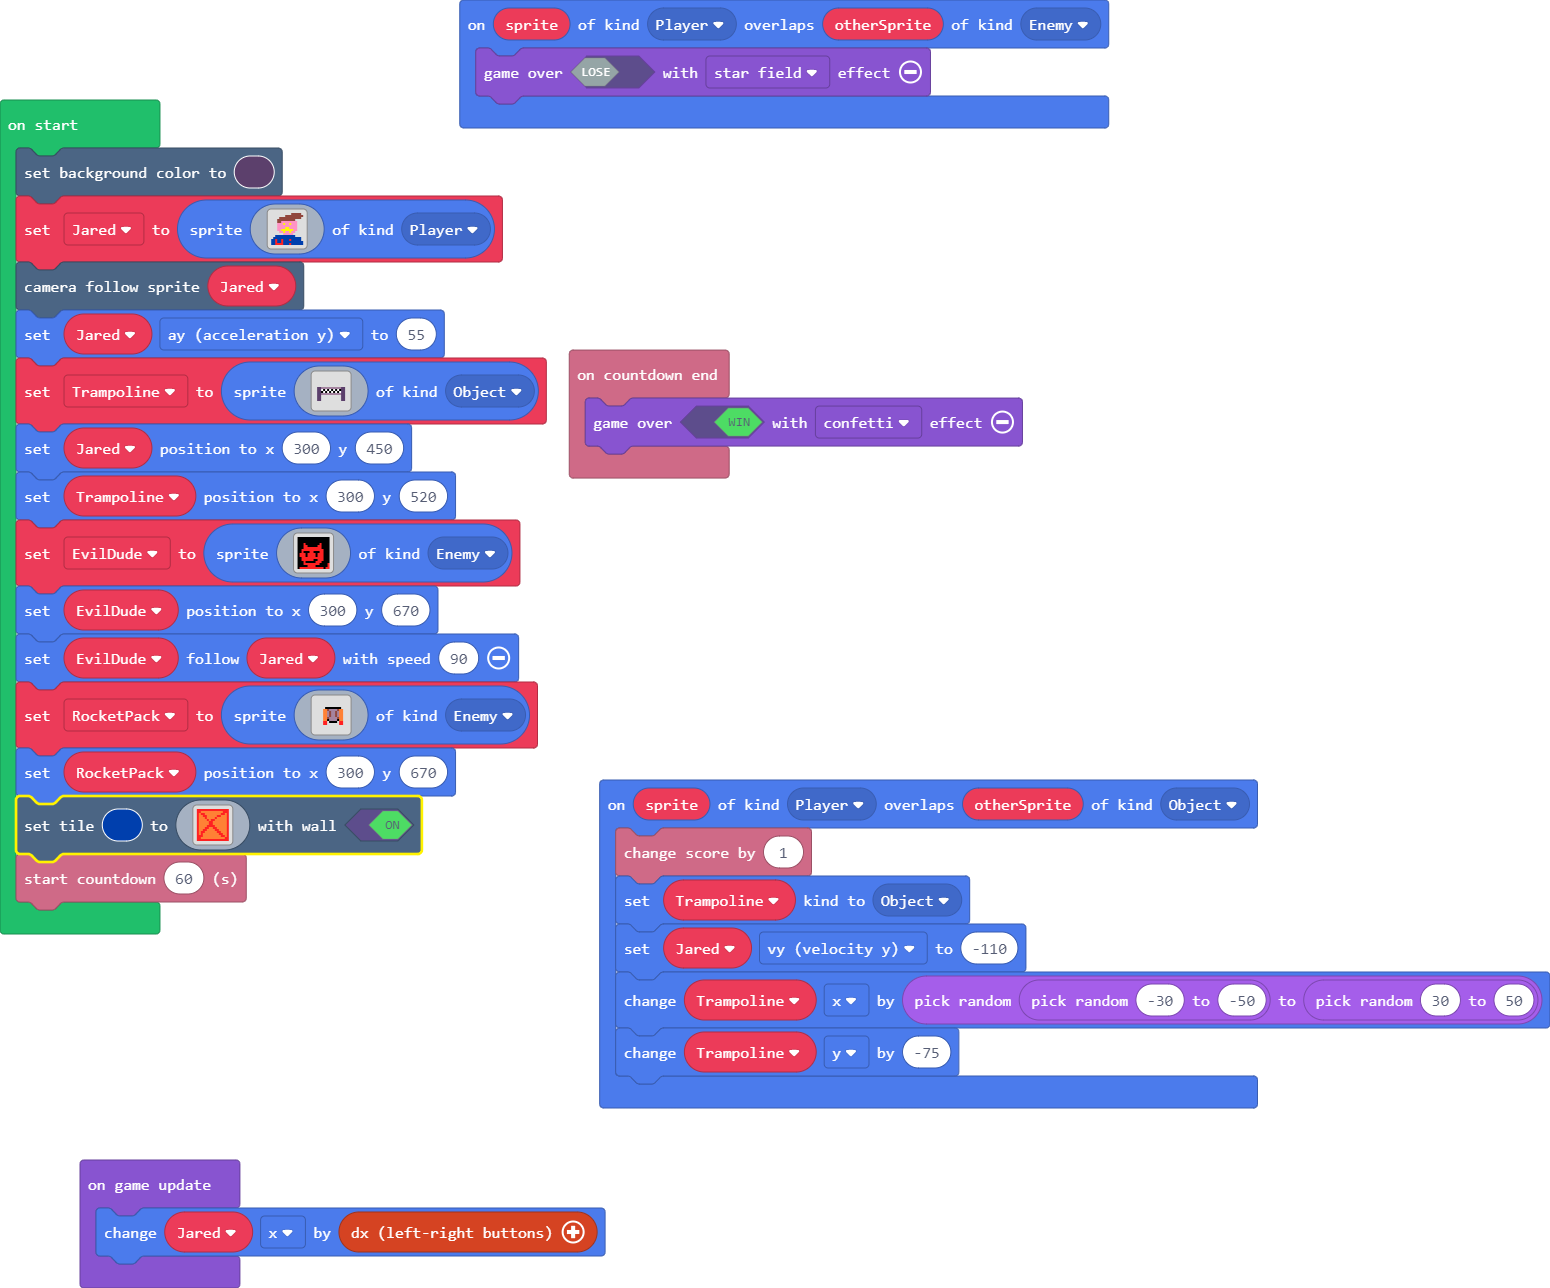
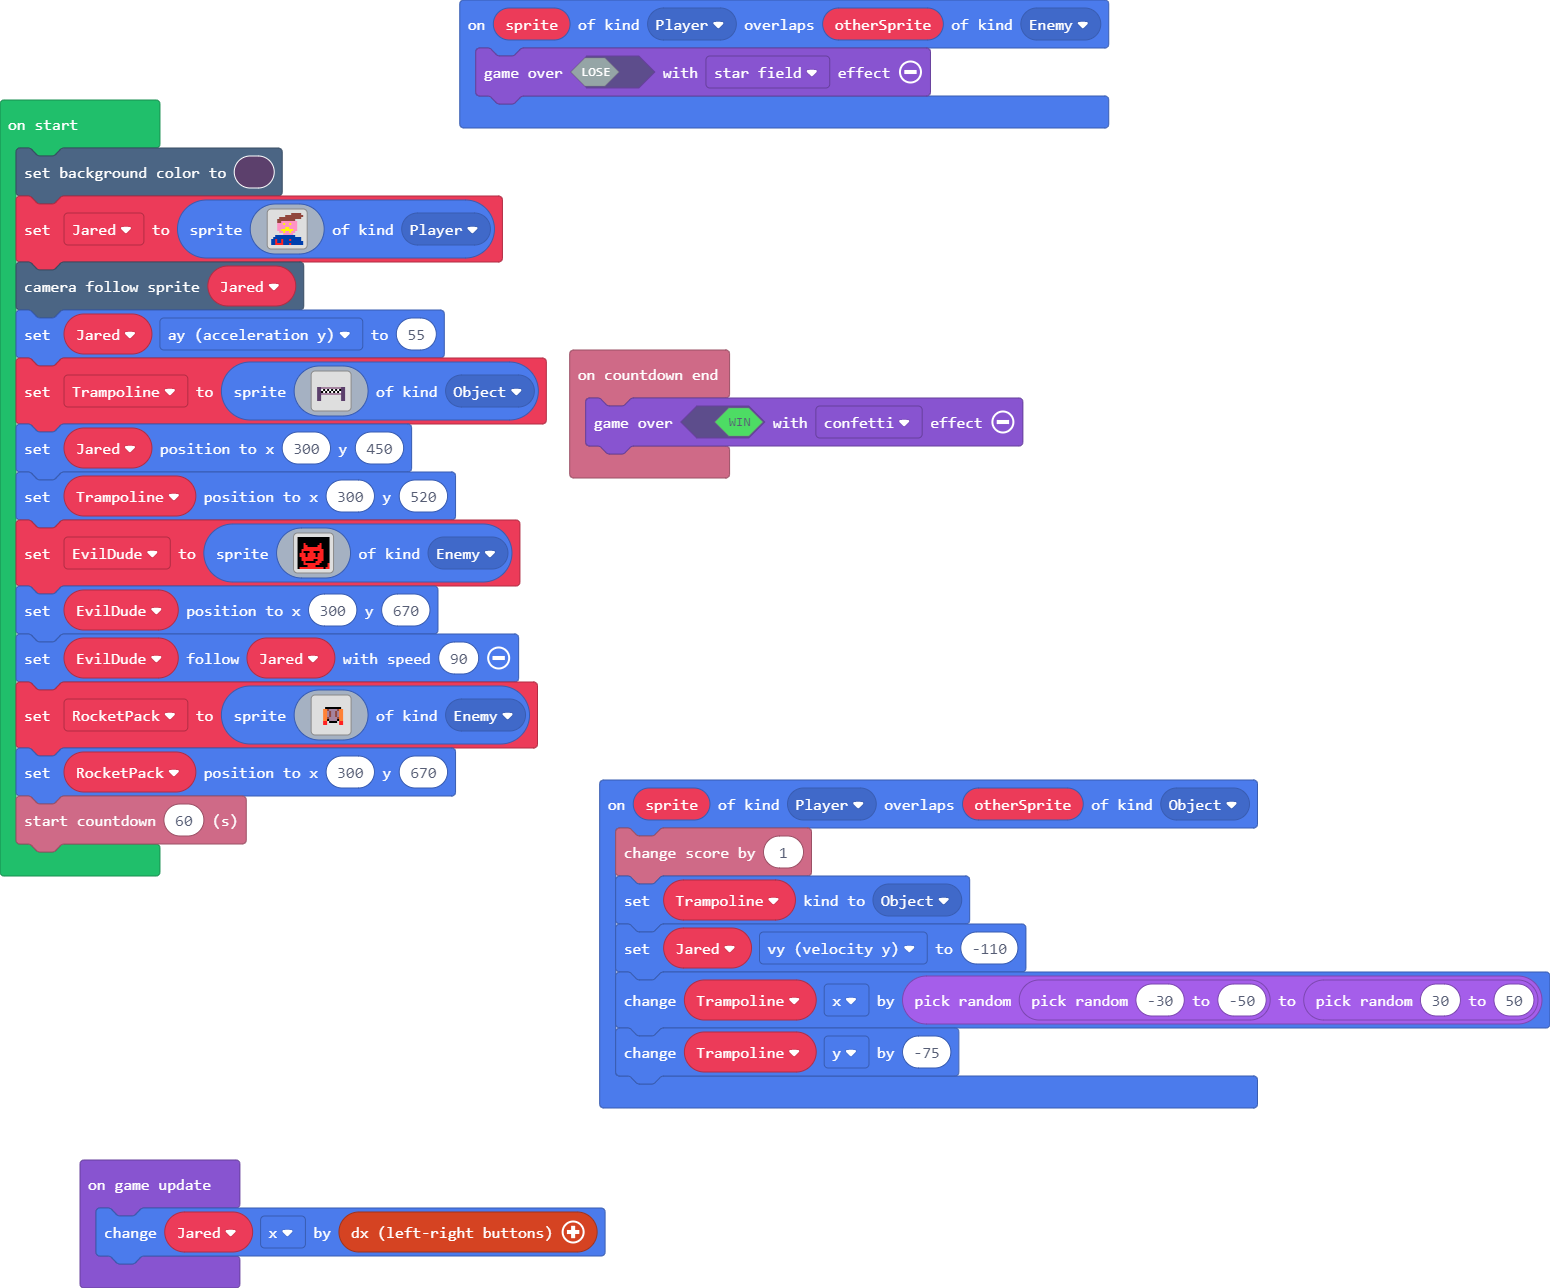
Update main.blocks, main.ts

Changed region(s): [[0.0, 0.5901, 0.2787, 0.7453]]

diff --git a/main.ts b/main.ts
@@ -1,6 +1,46 @@
 namespace SpriteKind {
     export const Object = SpriteKind.create()
 }
+namespace myTiles {
+    //% blockIdentity=images._tile
+    export const tile0 = img`
+. . . . . . . . . . . . . . . . 
+. . . . . . . . . . . . . . . . 
+. . . . . . . . . . . . . . . . 
+. . . . . . . . . . . . . . . . 
+. . . . . . . . . . . . . . . . 
+. . . . . . . . . . . . . . . . 
+. . . . . . . . . . . . . . . . 
+. . . . . . . . . . . . . . . . 
+. . . . . . . . . . . . . . . . 
+. . . . . . . . . . . . . . . . 
+. . . . . . . . . . . . . . . . 
+. . . . . . . . . . . . . . . . 
+. . . . . . . . . . . . . . . . 
+. . . . . . . . . . . . . . . . 
+. . . . . . . . . . . . . . . . 
+. . . . . . . . . . . . . . . . 
+`
+    //% blockIdentity=images._tile
+    export const tile1 = img`
+a a a a a a a a a a a a a a a a 
+a a a a a a a a a a a a a a a a 
+a a a a a a a a a a a a a a a a 
+a a a a a a a a a a a a a a a a 
+a a a a a a a a a a a a a a a a 
+a a a a a a a a a a a a a a a a 
+a a a a a a a a a a a a a a a a 
+a a a a a a a a a a a a a a a a 
+a a a a a a a a a a a a a a a a 
+a a a a a a a a a a a a a a a a 
+a a a a a a a a a a a a a a a a 
+a a a a a a a a a a a a a a a a 
+a a a a a a a a a a a a a a a a 
+a a a a a a a a a a a a a a a a 
+a a a a a a a a a a a a a a a a 
+a a a a a a a a a a a a a a a a 
+`
+}
 sprites.onOverlap(SpriteKind.Player, SpriteKind.Object, function (sprite, otherSprite) {
     info.changeScoreBy(1)
     Trampoline.setKind(SpriteKind.Object)
@@ -96,24 +136,6 @@ let RocketPack = sprites.create(img`
 . . . . . . . . . . . . . . . . 
 `, SpriteKind.Enemy)
 RocketPack.setPosition(300, 670)
-scene.setTile(8, img`
-2 2 2 2 2 2 2 2 2 2 2 2 2 2 2 2 
-2 2 4 4 4 4 4 4 4 4 4 4 4 2 2 2 
-2 4 2 2 4 4 4 4 4 4 4 4 2 2 4 2 
-2 4 4 2 2 4 4 4 4 4 2 2 4 4 4 2 
-2 4 4 4 2 4 4 4 4 2 4 4 4 4 4 2 
-2 4 4 4 4 2 4 2 2 4 4 4 4 4 4 2 
-2 4 4 4 4 4 2 2 4 4 4 4 4 4 4 2 
-2 4 4 4 4 4 2 2 4 4 4 4 4 4 4 2 
-2 4 4 4 4 2 2 2 2 4 4 4 4 4 4 2 
-2 4 4 4 2 2 4 4 2 2 4 4 4 4 4 2 
-2 4 4 2 2 4 4 4 4 2 2 4 4 4 4 2 
-2 4 2 2 4 4 4 4 4 4 2 2 4 4 4 2 
-2 4 2 4 4 4 4 4 4 4 4 2 2 4 4 2 
-2 2 2 4 4 4 4 4 4 4 4 4 2 2 4 2 
-2 2 4 4 4 4 4 4 4 4 4 4 4 4 2 2 
-2 2 2 2 2 2 2 2 2 2 2 2 2 2 2 2 
-`, true)
 info.startCountdown(60)
 game.onUpdate(function () {
     Jared.x += controller.dx()
